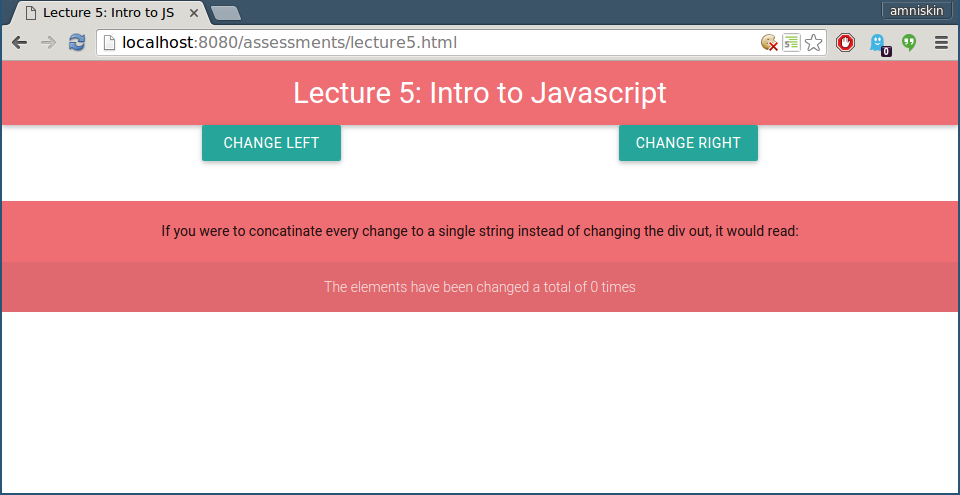
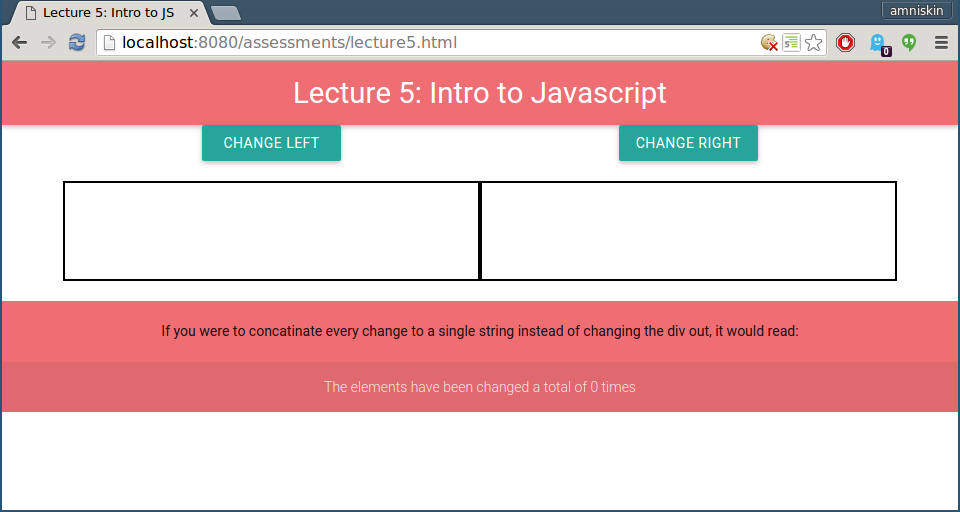
Reformatted L5 and added some content

diff --git a/guides/lecture5.html b/guides/lecture5.html
@@ -61,21 +61,21 @@
     </nav>
     <div class='container'
          id='home'>
-      <div class='row'>
-        <div class='col-sm-12 text-center'>
-          <h2>Let's make a thing... With Javascript!</h2>
-          <h4>Written by: Aaron Niskin</h4>
-        </div>
-      </div>
-      <div class='section'
+      <section class='section'
            id='intro'>
+        <div class='row'>
+          <header class='col-sm-12 text-center'>
+            <h2>Let's make a thing... With Javascript!</h2>
+            <h4>Written by: Aaron Niskin</h4>
+          </header>
+        </div>
         <div class='row'>
           <div class='col-xs-12 col-sm-8 col-sm-offset-2'>
             <p>In this project, we will hopefully learn a bit of javascript by making a thing. This thing should have two buttons - a right button and a left button. These buttons should, when clicked, propmt the user for some text, then place the text inside the left or right container (depending on which button was clicked). Furthermore, we will have a div in the footer that contains a concatination of all the text that was put in those divs since it started running (regardless of which side the text was placed on). Below that, we will have a counter that shows how many times we've changed these divs. For further information, check out the completed version.</p>
           </div>
         </div>
-      </div>
-      <div class='section'
+      </section>
+      <section class='section'
            id='prereqs'>
         <div class='row'>
           <div class='col-xs-12 col-sm-8 col-sm-offset-2'>
@@ -89,8 +89,8 @@
             </ul>
           </div>
         </div>
-      </div>
-      <div class='section'
+      </section>
+      <section class='section'
            id='learning'>
         <div class='row'>
           <div class='col-xs-12 col-sm-8 col-sm-offset-2'>
@@ -106,8 +106,8 @@
             </ul>
           </div>
         </div>
-      </div>
-      <div class='section'
+      </section>
+      <section class='section'
            id='step1'>
         <div class='row'>
           <div class='col-sm-8 col-sm-offset-2'>
@@ -127,59 +127,171 @@
 
           </div>
         </div>
-      </div>
-      <div class='section'
+      </section>
+      <section class='section'
            id='step2'>
         <div class='row'>
           <div class='col-sm-8 col-sm-offset-2'>
             <h3>Step 2: Get like me</h3>
-            <p>Being that basic familiarity with HTML, CSS, and using CSS frameworks is a requirement for this lesson, we will not go too far to explain these concepts in this lesson. To exemplify this point, using MaterializeCSS, make your page look like the image below.</p>
+            <p>Being that basic familiarity with HTML, CSS, and using CSS frameworks is a requirement for this lesson, we will not go too far to explain these concepts in this lesson. To exemplify this point, using MaterializeCSS, make your page look like the image below. Note that there are divs underneath each of the two buttons. These two buttons should have IDs to clearly identify them, and so should the two divs below them. The divs below are where we will be putting our user input.</p>
+            <p>There is also a div below the text "If you were to concatinate ... would read:". This div is where we will be placing the concatinated text, and should have an appropriate ID as well.</p>
             <img src='/img/lecture5-layout.png' alt='page layout' class='img-responsive'>
+            <p>In order to make our lives easier down the road, let's put the "0" from the bottom line (where the total number of changes will be displayed) inside of a <code>span</code> with an appropriate ID as well.</p>
+            <p>For the A students, you might want to set the <code>overflow</code> property of our left and right text divs to <code>auto</code>. This makes it so scroll bars appear when needed.</p>
+            <pre class='hint blur'>&#60;!DOCTYPE html>
+
+&#60;html>
+  &#60;head>
+    &#60;title>
+      Lecture 5: Intro to JS
+    &#60;/title>
+    &#60;link rel="stylesheet" href="https://cdnjs.cloudflare.com/ajax/libs/materialize/0.97.3/css/materialize.min.css">
+    &#60;style>
+      .changer {
+        height: 100px;
+        border: 2px solid black;
+        overflow: auto;
+      }
+    &#60;/style>
+    &#60;script src="http://code.jquery.com/jquery-2.1.4.min.js">&#60;/script>
+    &#60;script src="https://cdnjs.cloudflare.com/ajax/libs/materialize/0.97.3/js/materialize.min.js">&#60;/script>
+  &#60;/head>
+  &#60;body>
+    &#60;nav>
+      &#60;div class="nav-wrapper">
+        &#60;a href="#" class='brand-logo'>Lecture 5: Intro to Javascript&#60;/a>
+      &#60;/div>
+    &#60;/nav>
+    &#60;div class='container'>
+      &#60;div class='row'>
+        &#60;div class='col s2 offset-s2 btn' id='left-btn'>
+          Change left
+        &#60;/div>
+        &#60;div class='col s2 offset-s4 btn' id='right-btn'>
+          Change right
+        &#60;/div>
+      &#60;/div>
+    &#60;/div>
+    &#60;div class='container'>
+      &#60;div class='row'>
+        &#60;div class='col s6 changer'
+           id='left-div'>
+        &#60;/div>
+        &#60;div class='col s6 changer'
+           id='right-div'>
+        &#60;/div>
+      &#60;/div>
+    &#60;/div>
+    &#60;footer class='page-footer'>
+      &#60;div class='container'>
+        &#60;div class='row'>
+          &#60;div class='col s12 center'>
+            If you were to concatinate every change to a single string instead of changing the div out, it would read:&#60;br>&#60;span id='total-concat-string'>&#60;/span>
+          &#60;/div>
+        &#60;/div>
+      &#60;/div>
+      &#60;div class='footer-copyright'>
+        &#60;div class='container center'>
+          The elements have been changed a total of &#60;span id='total-changes'>0&#60;/span> times
+        &#60;/div>
+      &#60;/div>
+    &#60;/footer>
+  &#60;/body>
+&#60;/html></pre>
+            <p>Note: In the above solution, a <code>script</code> tag was used. In your code, you might want to include a separate CSS file with the style in there instead. It makes the code cleaner and reusable.</p>
           </div>
         </div>
-      </div>
-      <div class='section'
+      </section>
+      <section class='section'
            id='step3'>
         <div class='row'>
           <div class='col-sm-8 col-sm-offset-2'>
-            <h3>Step 3: Get a general outline</h3>
+            <h3>Step 3: Get a general idea</h3>
             <p>It's important to have a general outline of how you want things to be before you start typing away at the keyboard. So let's get on that!</p>
+            <p>What do we want this program to do? Well, we want to make it so that when we click either button, we get a prompt for some text and the corresponding div contents change to that text. Furthermore, we also would like to keep a tracker of all changes made on the bottom in the form of a single concatinated string. Below that we would like to have a counter display how many times we've changed the divs (irrespective of which div was changed). Let's get a list of things we will need, then tackle them one by one and adjust as needed.</p>
+            <ul>
+              <li>We're going to need event handlers on each of the buttons.</li>
+              <li>When the user clicks a button, the user should be prompted for text input.</li>
+              <li>The corresponding div contents should be replaced by the user's text.</li>
+              <li>The string on the bottom of the screen should be concatinated with the new text input.</li>
+              <li>The counter on the bottom needs to be increased.</li>
+            </ul>
+            <p>That seems about right. Well, let's go ahead and get started!</p>
+            <p>Here is where we want to start our JavaScript code. So, of course, we are going to want to include a <code>script</code> tag to call in our JS file. This script tag should have a <code>src</code> property with the path to the JS file as its value. We also need to place this tag at the end of our HTML file. The reason for this is the HTML execution model.</p>
+            <p>Just to make sure we've done everything correctly, let's have our JS file alert the user and see if we get the alert.</p>
+            <pre class='hint blur'>alert("hey");</pre>
           </div>
         </div>
-      </div>
-      <div class='section'
+      </section>
+      <section class='section'
            id='step4'>
         <div class='row'>
           <div class='col-sm-8 col-sm-offset-2'>
-            <h3>Step 4:</h3>
+            <h3>Step 4: Handling the events promptly</h3>
+            <p>let's go ahead and grab the two button elements and give them variable names (so we can identify them more easily in our code). We can do this by typing:</p>
+            <pre>var leftBtn = document.getElementById("left-btn");</pre>
+            <p>where "left-btn" is the ID of the left button, and leftBtn is the new variable we just created for said button. You may have noticed the camel case in our variable name (lowercase first word, then the first letter of each consecutive word is capitalized). That is the standard naming schema in JavaScript.</p>
+            <p>Let's go ahead and grab both buttons and save them in variables.</p>
+            <pre class='hint blur'>var leftBtn = document.getElementById("left-btn");
+var rightBtn = document.getElementById("right-btn");</pre>
+            <p>Great! We're off to a great start! Now let's go ahead and set an event listener on these two elements. The syntax for setting an event listener on an element is:</p>
+            <pre>element.addEventListener(event, function-you-want-to-run);</pre>
+            <p>In this case, the event we're trying to listen for is a click. So our code should look like:</p>
+            <pre>leftBtn.addEventListener("click", function() {});</pre>
+            <p>Go ahead and add click listeners on both of our buttons.</p>
+            <pre class='hint blur'>leftBtn.addEventListener("click", function() {});
+rightBtn.addEventListener("click", function() {});</pre>
+            <p>So far, it seems as though we have some click handlers, but how can we be sure that they're working correctly? Well, let's have them alert the user on click! Inside the function code (not the parameter list, but rather the code that will be executed), have the function alert the user.</p>
+            <pre class='hint blur'>leftBtn.addEventListener("click", function() {alert("test1");});
+rightBtn.addEventListener("click", function() {alert("test2");});</pre>
+            <p>If everything is working correctly, go ahead and remove those alerts and let's get those prompts working! A <code>prompt</code> is much like an <code>alert</code> in that a popup is displayed with the given text inside. The main difference being that a <code>prompt</code> will also have a text field where a user can input some text, and the <code>prompt</code> function returns that text. So, if we want to keep the user input, we can set a varialbe equal to <code>prompt("give me text!");</code>. In our case, we want to prompt the user for the text they'd like in, say, the left div. So our code should look something like this:</p>
+            <pre>
+leftBtn.addEventListener("click", function() {
+  var str = prompt("What text would you like the left div to show?");
+}); </pre>
+            <p>So, now we should know enough to have both buttons prompt the user for text and specify which div's content this text will be replacing. Go ahead and do that.</p>
+            <pre class='hint blur'>leftBtn.addEventListener("click", function() {
+  var str = prompt("what text would you like the left div to show?");
+});
+rightBtn.addEventListener("click", function() {
+  var str = prompt("What text would you like the right div to show?);
+});</pre>
           </div>
         </div>
-      </div>
-      <div class='section'
+      </section>
+      <section class='section'
            id='step5'>
         <div class='row'>
           <div class='col-sm-8 col-sm-offset-2'>
-            <h3>Step 5:</h3>
+            <h3>Step 5: Let's get our divs changed!</h3>
+            <p>To change the contents of an HTML element using JavaScript, we can use the method <code>innerHTML</code>. For example, at the time this article was written, if you went to <a href='http://google.com'>Google.com</a>, enter the JavaScript console and typed <code>document.getElementById("lga").innerHTML = "hey"</code>, the Google icon would be replaced by the text, "hey". Go ahead. Try this out on your own for a while. Once you're comfortable with that, try and add some HTML to the text (as in, instead of "hey", have it be <code>"&#60;a href='aaron.niskin.org'>hey&#60;/a>"</code> and see what happens then).</p>
+            <p>Once we understand how <code>innerHTML</code> works, let's go for change! Just after we store the user input in a variable, let's set the corresponding div's inner HTML to that input. Now, since we might be dealing with that div quite a lot, let's go ahead and save that element in a variable too. Once you've stored them, we can change the inner HTML by typing:</p>
+            <pre>leftDiv.innerHTML = str;</pre>
+            <p>This is assuming you named the variable "leftDiv" and the string you wanted to place inside the div was stored in a variable named "str". Now that we know how to do it, let's make it so that our event handler puts the text in the corresponding div.</p>
           </div>
         </div>
-      </div>
-      <div class='section'
+      </section>
+      <section class='section'
            id='step6'>
         <div class='row'>
           <div class='col-sm-8 col-sm-offset-2'>
-            <h3>Step 6:</h3>
+            <h3>Step 6: Let's talk functions!</h3>
+            <p>This code will be a lot more legible if we use functions to perform the different tasks we plan on doing. For instance, let's write a function that takes one string argument and changes the left div to that argument string.</p>
+            <pre>function changeLeft(stringArg) {
+  leftDiv.innerHTML = stringArg;
+}</pre>
           </div>
         </div>
-      </div>
-      <div class='section'
+      </section>
+      <section class='section'
            id='step7'>
         <div class='row'>
           <div class='col-sm-8 col-sm-offset-2'>
             <h3>Step 7:</h3>
           </div>
         </div>
-      </div>
-      <div class='section'
+      </section>
+      <section class='section'
            id='step8'>
         <div class='row'>
           <div class='col-sm-8 col-sm-offset-2'>
@@ -187,7 +299,7 @@
             <p>You're done. Go away. Go outside. Play some basketball. 
           </div>
         </div>
-      </div>
+      </section>
     </div>
   </body>
 </html>

diff --git a/assessments/lecture5.html b/assessments/lecture5.html
@@ -6,8 +6,13 @@
       Lecture 5: Intro to JS
     </title>
     <link rel="stylesheet" href="https://cdnjs.cloudflare.com/ajax/libs/materialize/0.97.3/css/materialize.min.css">
-    <script src="http://code.jquery.com/jquery-2.1.4.min.js"></script>
-    <script src="https://cdnjs.cloudflare.com/ajax/libs/materialize/0.97.3/js/materialize.min.js"></script>
+    <style>
+      .changer {
+        height: 100px;
+        border: 2px solid black;
+        overflow: auto;
+      }
+    </style>
   </head>
   <body>
     <nav>
@@ -27,11 +32,11 @@
     </div>
     <div class='container'>
       <div class='row'>
-        <div class='col s6 change-me'
-           id='changer1'>
+        <div class='col s6 changer'
+           id='left-div'>
         </div>
-        <div class='col s6 change-me'
-           id='changer2'>
+        <div class='col s6 changer'
+           id='right-div'>
         </div>
       </div>
     </div>
@@ -54,49 +59,44 @@
 
 <script>
 var concatString = "";
-var numLeftChanges = 0;
-var numRightChanges = 0;
+var numChanges = 0;
 
 // Getting elements
-var btn1 = document.getElementById("left-btn");
-var btn2 = document.getElementById("right-btn");
-var div1 = document.getElementById("changer1");
-var div2 = document.getElementById("changer2");
+var leftBtn  = document.getElementById("left-btn");
+var rightBtn = document.getElementById("right-btn");
+var leftDiv  = document.getElementById("left-div");
+var rightDiv = document.getElementById("right-div");
 
 // Getting number elements
 var stringSpan = document.getElementById("total-concat-string");
-var leftChanges = document.getElementById('changes-to-1');
-var rightChanges = document.getElementById('changes-to-2');
 var totalChanges = document.getElementById('total-changes');
 
-function change1(str) {
-  concatString += str;
-  numLeftChanges++;
-  div1.innerHTML= str;
-  stringSpan.innerHTML= concatString;
-  totalChanges.innerHTML = numLeftChanges + numRightChanges;
-  console.log("The left div has been changed " + numLeftChanges + " time(s).");
+function changeLeft(str) {
+  newChange(str);
+  leftDiv.innerHTML= str;
 }
 
-function change2(str) {
+function changeRight(str) {
+  newChange(str);
+  rightDiv.innerHTML = str;
+}
+
+function newChange(str) {
   concatString += str;
-  numRightChanges++;
-  div2.innerHTML = str;
   stringSpan.innerHTML = concatString;
-  totalChanges.innerHTML = numLeftChanges + numRightChanges;
-  console.log("The right div has been changed " + numRightChanges + " time(s). And just for fun, here's a random number between 0 and 100: " + Math.round(Math.random() * 100));
+  numChanges ++;
+  totalChanges.innerHTML = numChanges;
 }
 
-
-btn1.addEventListener('click', function() {
+leftBtn.addEventListener('click', function() {
   var str = prompt("Please type the string you would like to place in the left side.");
-  change1(str);
+  changeLeft(str);
 });
 
 
-btn2.addEventListener('click', function() {
+rightBtn.addEventListener('click', function() {
   var str = prompt("Please type the string you would like to place in the right side.");
-  change2(str);
+  changeRight(str);
 });
 
 </script>
